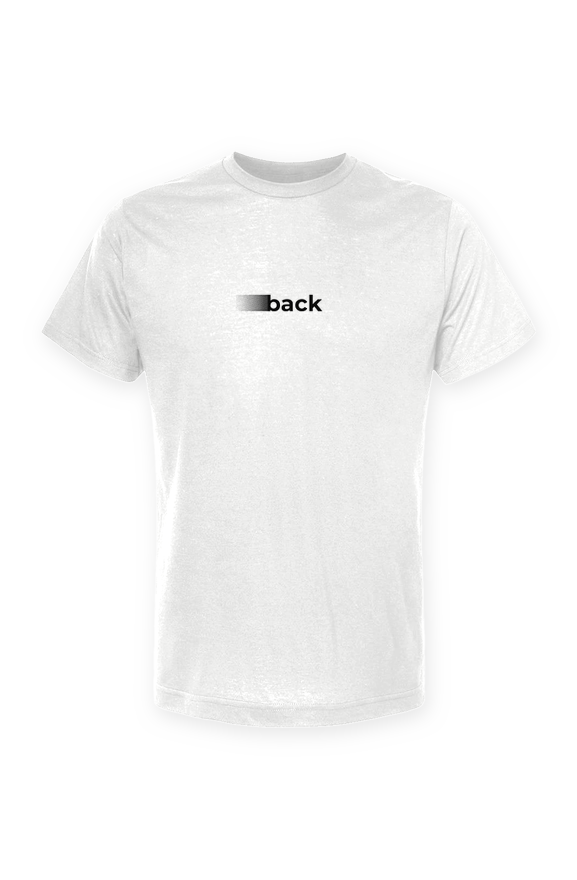
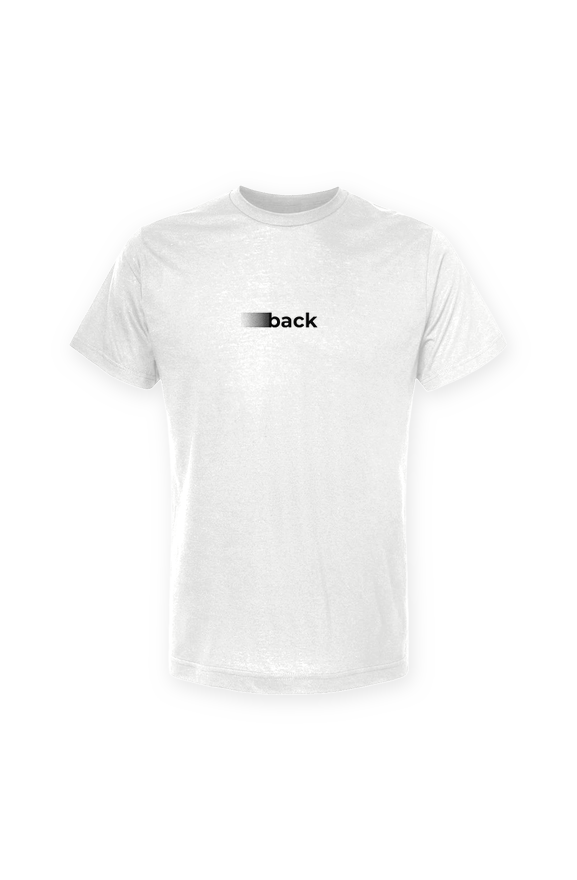
Add product subheads on homepage; shrink Back Home mockup for even padding

diff --git a/index.html b/index.html
@@ -115,6 +115,12 @@
       font-size: 0.8rem;
       font-weight: 700;
     }
+    .product-sub {
+      color: #999;
+      font-weight: 300;
+      font-size: 0.75rem;
+      margin-top: 4px;
+    }
     .product-price {
       color: #666;
       font-weight: 300;
@@ -302,6 +308,7 @@
             <div class="product-img" style="background-image: url('back-out-there.png'); background-position: center;" role="img" aria-label="Back Out There"></div>
             <div class="product-info">
               <div class="product-name">Back Out There</div>
+              <div class="product-sub">Athletic fit</div>
               <div class="product-price">$49.99</div>
             </div>
           </div>
@@ -313,6 +320,7 @@
             <div class="product-img" style="background-image: url('back-home.png'); background-position: center;" role="img" aria-label="Back Home"></div>
             <div class="product-info">
               <div class="product-name">Back Home</div>
+              <div class="product-sub">Soft cotton blend</div>
               <div class="product-price">$29.99</div>
             </div>
           </div>
@@ -324,6 +332,7 @@
             <div class="product-img" style="background-image: url('IMG_4626_backhomeshorts_website.PNG'); background-position: center;" role="img" aria-label="Back Home Shorts"></div>
             <div class="product-info">
               <div class="product-name">Back Home Shorts</div>
+              <div class="product-sub">Soft fleece</div>
               <div class="product-price">$44.99</div>
             </div>
           </div>
@@ -335,6 +344,7 @@
             <div class="product-img" style="background-image: url('racer-back.png'); background-position: center;" role="img" aria-label="Racer Back"></div>
             <div class="product-info">
               <div class="product-name">Racer Back</div>
+              <div class="product-sub">Athletic fit</div>
               <div class="product-price">$29.99</div>
             </div>
           </div>
